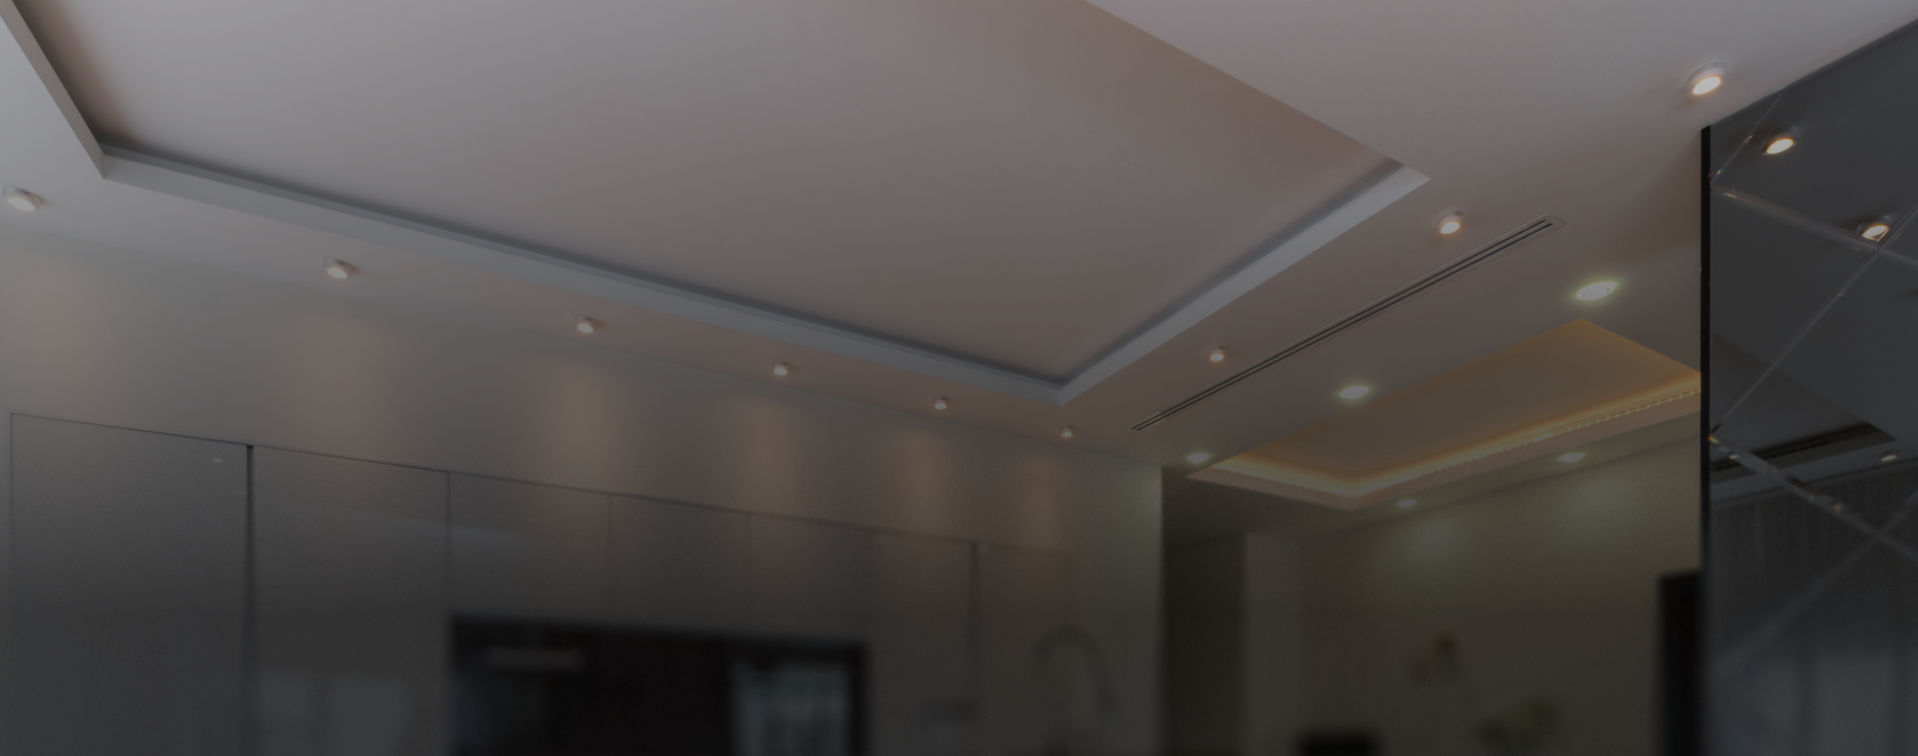
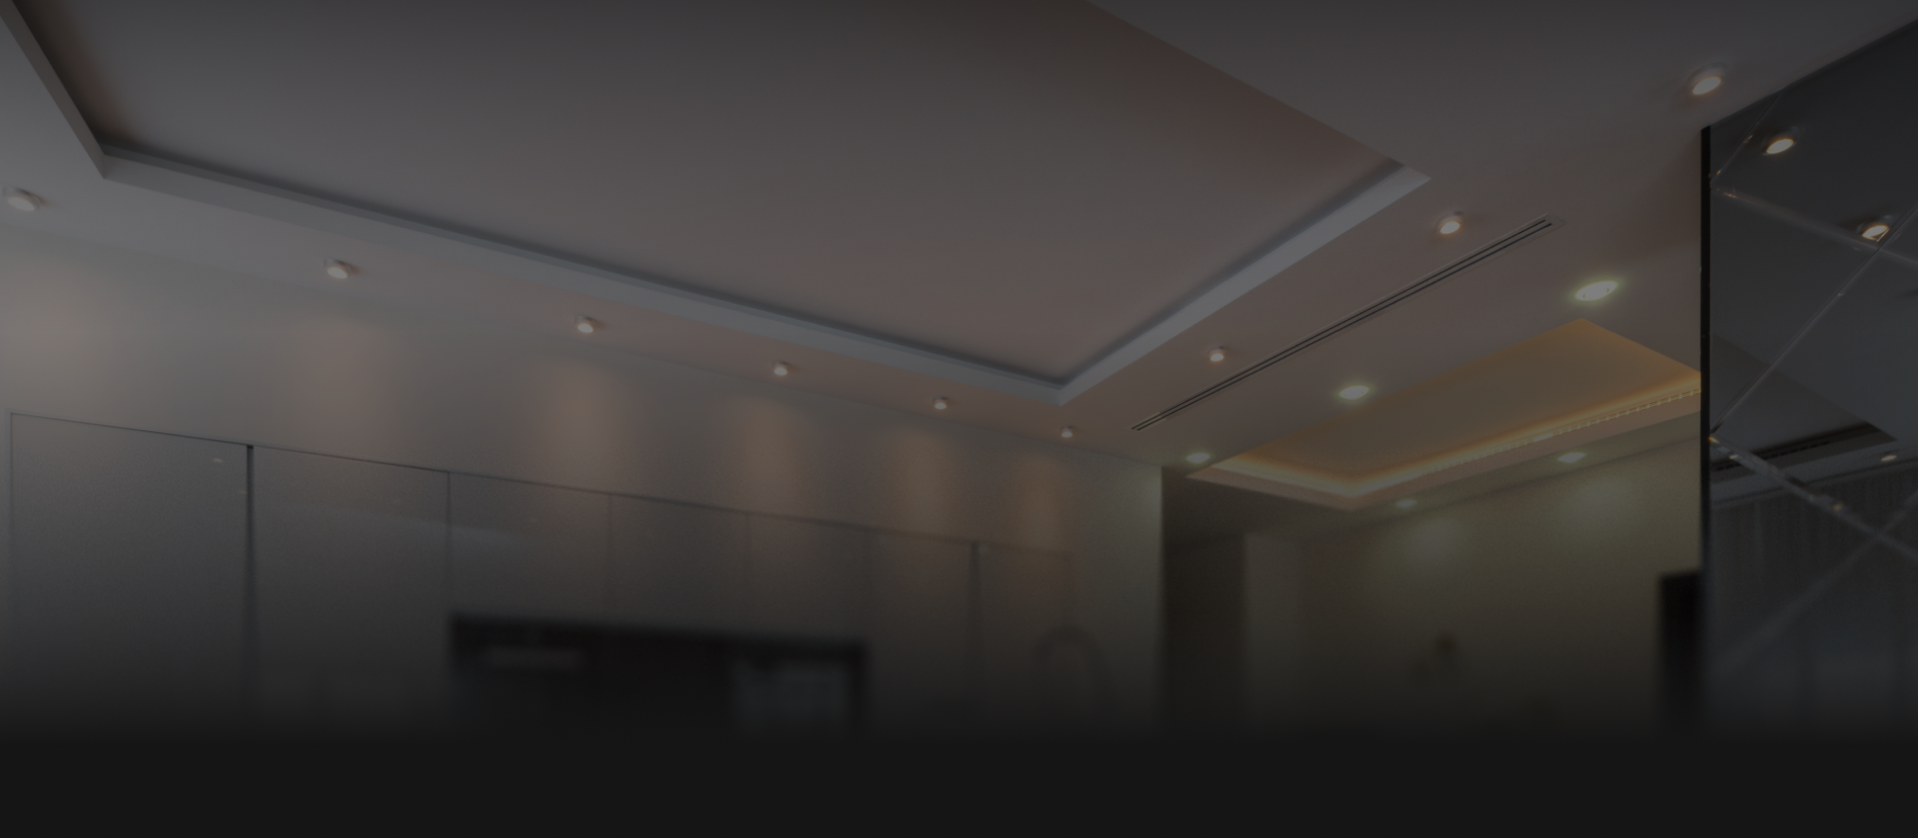
headertyles

diff --git a/src/components/homepage/HomePage.vue b/src/components/homepage/HomePage.vue
@@ -2,42 +2,45 @@
 import GuaranteeBlock from '@/components/homepage/GuaranteeBlock.vue'
 import Discount from './Discount.vue'
 import Calculator from '../general/calculator/Calculator.vue'
-
 </script>
 
 <template>
   <div class="homepage-wrapper" id="homepage">
-    <div class="shadow"></div>
-    <div class="structure">
-      <div class="homepage-items">
-        <div class="slogans">
-          <h1 class="main-slogan">
-            Установим лучший натяжной потолок <span class="another-color">в Москве и МО</span>
-          </h1>
-          <p class="add-slogan">
-            Используем только качественные, проверенные <br> временем материалы. Сотрудничаем с лучшими <br>
-            производителями натяжных потолков.
-          </p>
-          <Discount></Discount>
+      <div class="shadow"></div>
+      <div class="structure">
+        <div class="homepage-items">
+          <div class="slogans">
+            <h1 class="main-slogan">
+              Установим лучший натяжной потолок <span class="another-color">в Москве и МО</span>
+            </h1>
+            <p class="add-slogan">
+              Используем только качественные, проверенные <br> временем материалы. Сотрудничаем с лучшими <br>
+              производителями натяжных потолков.
+            </p>
+            <Discount></Discount>
+          </div>
+          <Calculator class="calc"></Calculator>
         </div>
-        <Calculator class="calc"></Calculator>
+        <GuaranteeBlock />
       </div>
-      <GuaranteeBlock />
-    </div>
   </div>
 </template>
 
 <style scoped lang="scss">
 .homepage-wrapper {
-  background: url(../../assets/images/homepage/background.png) no-repeat;
-  background-size: cover;
   position: relative;
+  background: url(../../assets/images/homepage/background.png);
+  background-repeat: no-repeat;
+  background-size: cover;
 
   .structure {
     width: 63.5%;
     padding-top: 10rem;
     position: relative;
   }
+}
+.background-wrapper {
+  position: absolute;
 }
 .shadow {
   position: absolute;

diff --git a/src/components/headerComp/HeaderComp.vue b/src/components/headerComp/HeaderComp.vue
@@ -1,10 +1,25 @@
 <script setup lang="ts">
+import { ref } from 'vue';
+import type { Nullable } from '@/types/types';
 import PortalLogo from '../icons/PortalLogo.vue';
 import WhatsappLogo from '../icons/WhatsappLogo.vue';
+import { computed } from '@vue/reactivity';
+const root = ref<Nullable<HTMLElement>>();
+const currentScroll = ref(window.scrollY);
+window.addEventListener("scroll", () => {currentScroll.value = window.scrollY});
+const onScroll = computed(
+  ()=>{
+    let headerHeight = root.value?.getBoundingClientRect().height;
+    if (headerHeight)
+    return (currentScroll.value > headerHeight)?'prettyHeader':''
+  }  
+)
+root.value?.getBoundingClientRect().height;
+
 </script>
 
 <template>
-  <header>
+  <header ref="root" :class="onScroll" class="header">
     <div class="structure">
       <div class="header-items">
         <div class="left-items">
@@ -28,10 +43,11 @@ import WhatsappLogo from '../icons/WhatsappLogo.vue';
 </template>
 
 <style scoped lang="scss">
-header {
+.header {
   position: fixed;
   width: 100%;
   z-index: 5;
+  transition: 0.3s ease-in-out;
 
   .structure {
     padding-top: 2.6rem;
@@ -54,8 +70,7 @@ header {
 }
 
 .left-items {
-  display: flex;
-  align-items: center;
+float: left;
 }
 
 .right-items {
@@ -85,5 +100,13 @@ header {
   text-decoration: underline;
   color: #FFFFFF;
   margin-left: 1rem;
+}
+.prettyHeader {
+  background-color: rgba(0, 0, 0, 0.5);
+  .structure {
+    padding-top: 0.8rem;
+    padding-bottom: 0.8rem;
+  }
+
 }
 </style>

diff --git a/src/components/icons/PortalLogo.vue b/src/components/icons/PortalLogo.vue
@@ -5,15 +5,31 @@
 <template>
   <div class="logo">
     <img src="../../assets/svg/logo-symbol.svg" alt="" class="logo-symbol">
+    <div class="logo-slogans">
     <img src="../../assets/svg/logo-text.svg" alt="" class="logo-text">
+    <img src="../../assets/svg/ceiling.svg" alt="" class="logo-add_text">
+  </div>
   </div>
 </template>
 
 <style scoped lang="scss">
   .logo {
     user-select: none;
+    display: flex;
+    align-items: center;
     .logo-symbol {
       margin-right: 1rem;
     }
   }
+  .logo-slogans {
+    display:flex;
+    flex-direction: column;
+    .logo-text {
+      margin-left: -0.5rem;
+    }
+    .logo-add_text {
+      margin-left: -1rem;
+    }
+  }
+
 </style>

diff --git a/src/assets/base.css b/src/assets/base.css
@@ -10,7 +10,7 @@
 
 :root {
     font-family: var(--font-family);
-    font-size: 16px;
+    font-size: 0.83vw;
 }
 
 html {

diff --git a/src/components/homepage/HomePageTape.vue b/src/components/homepage/HomePageTape.vue
@@ -10,6 +10,7 @@
 
 <style scoped lang="scss">
 .tape {
+  width: 12.5rem;
   user-select: none;
 }
 
